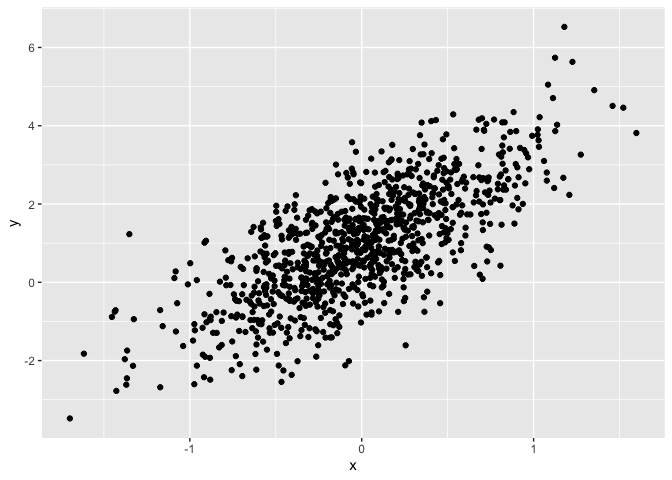
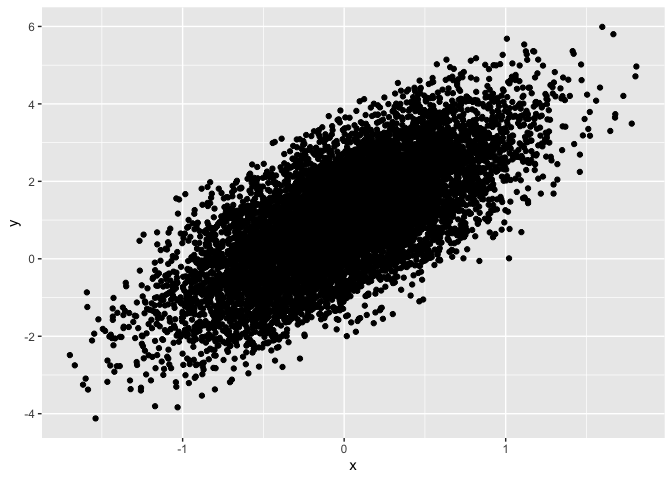
change rnorm seed number

diff --git a/template.md b/template.md
@@ -12,7 +12,7 @@ First we create a dataframe containing variables for our plots.
 set.seed(1234)
 
 plot_df = tibble(
-  x = rnorm(1000, sd = .5),
+  x = rnorm(10000, sd = .5),
   y = 1 + 2 * x + rnorm(1000)
 )
 ```
